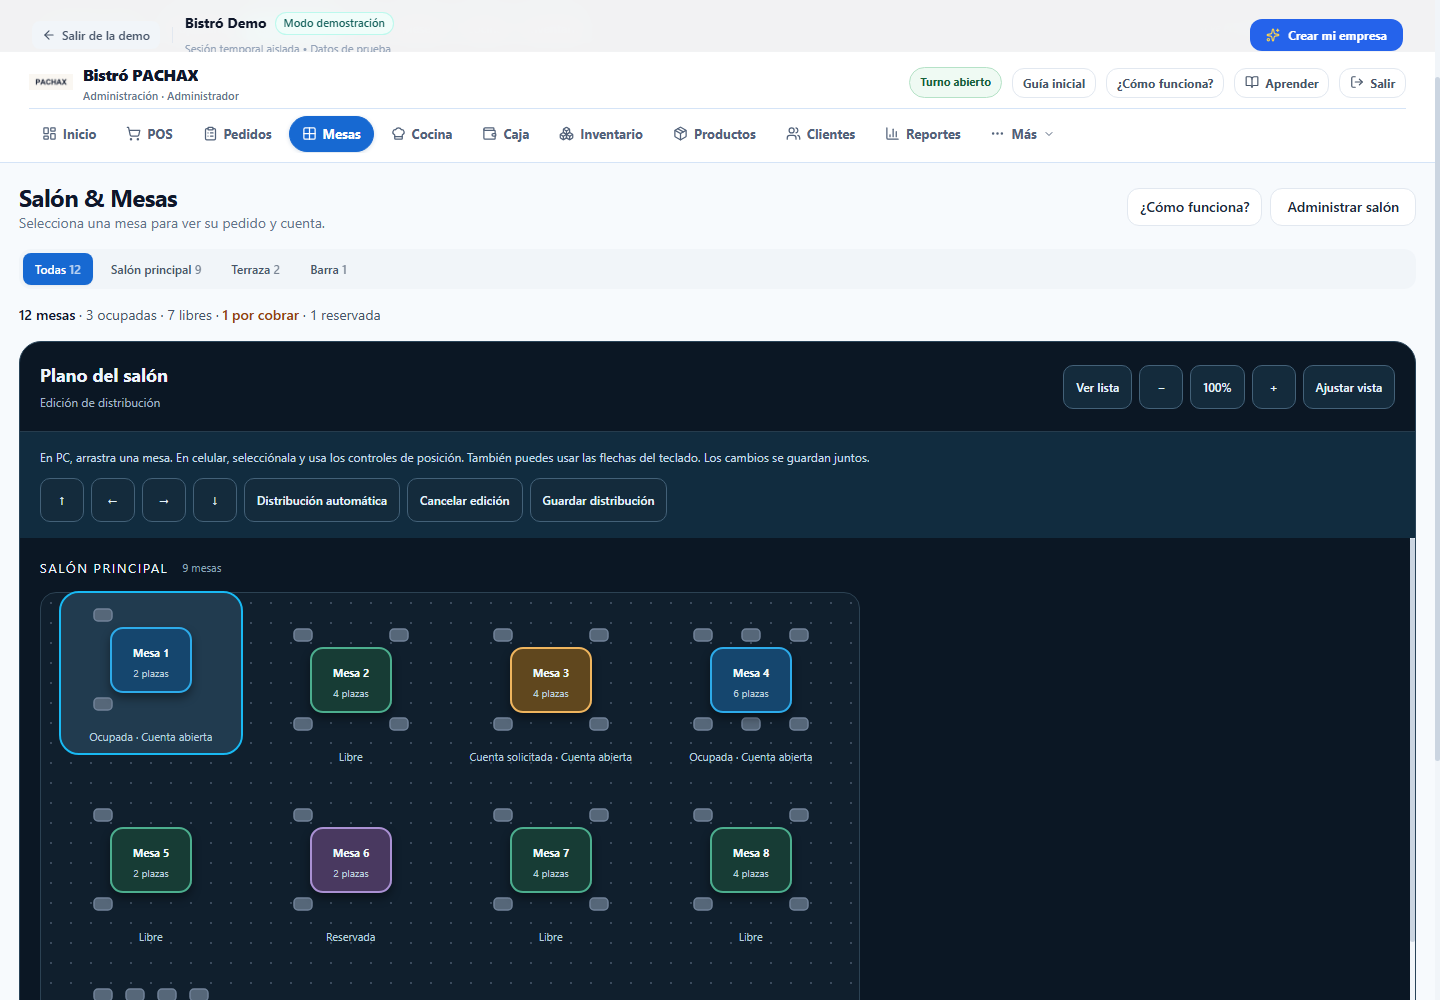
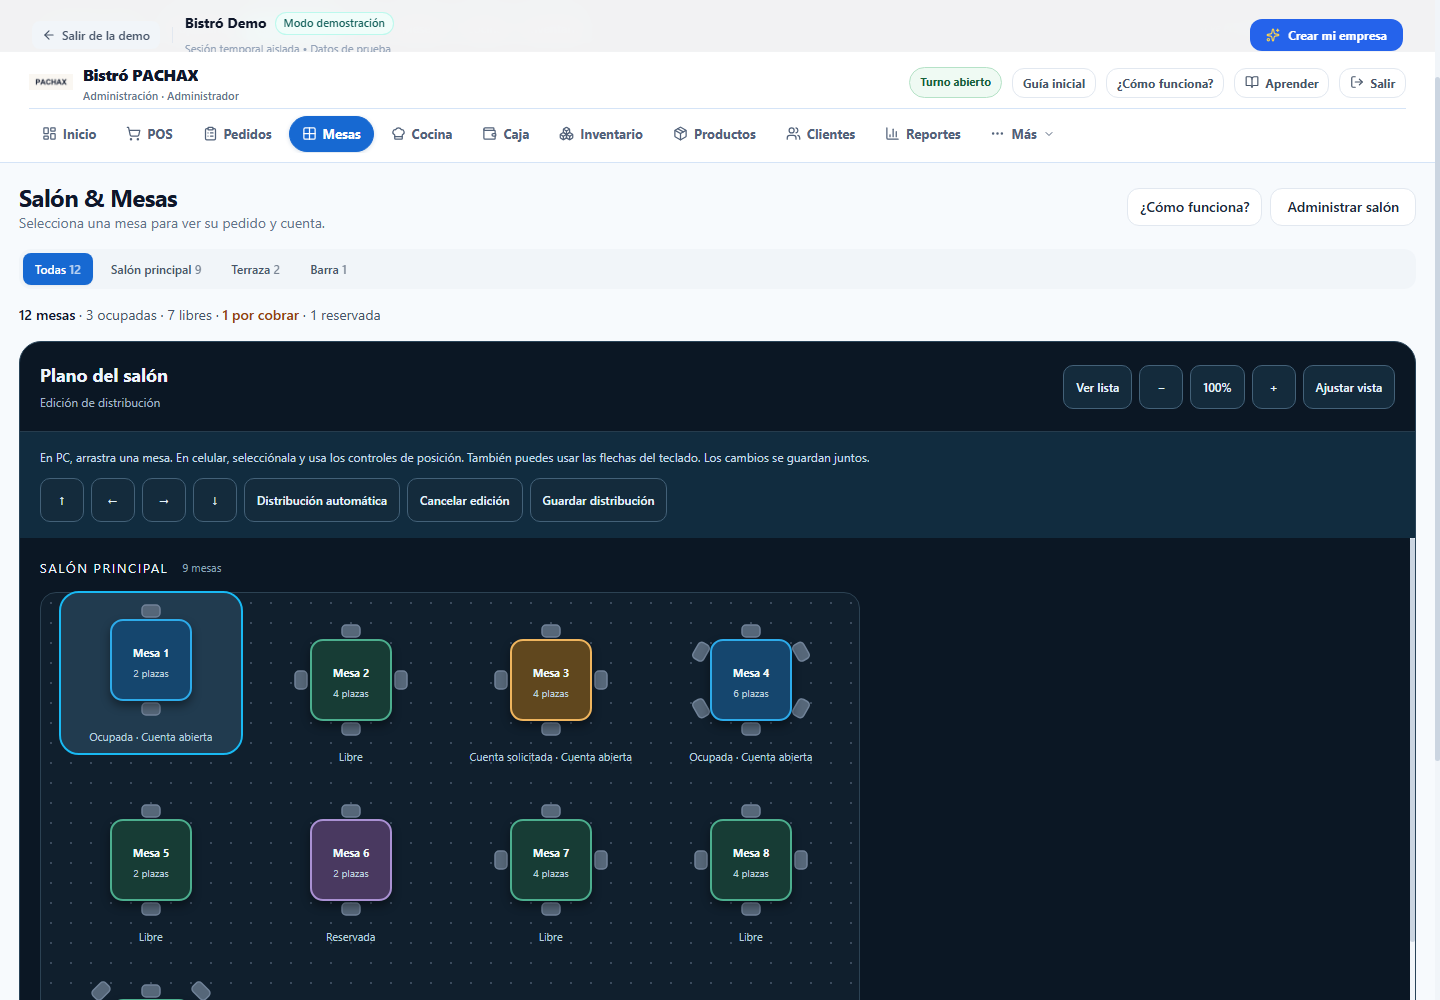
fix(restaurant): align table geometry and seat placement with real shapes

diff --git a/src/modules/restaurant/components/RestaurantFloorCanvas.tsx b/src/modules/restaurant/components/RestaurantFloorCanvas.tsx
@@ -20,11 +20,15 @@ export const RestaurantVisualTable = memo(function RestaurantVisualTable({ table
   return <svg viewBox="0 0 180 130" aria-hidden="true" className="restaurant-table-vector">
     {Array.from({ length: count }, (_, i) => {
       const angle = (i / count) * Math.PI * 2 - Math.PI / 2
-      const x = round ? 90 + Math.cos(angle) * 51 : i < Math.ceil(count / 2) ? 42 + i * (96 / Math.max(1, Math.ceil(count / 2) - 1)) : 42 + (i - Math.ceil(count / 2)) * (96 / Math.max(1, Math.floor(count / 2) - 1))
-      const y = round ? 61 + Math.sin(angle) * 49 : i < Math.ceil(count / 2) ? 16 : 105
-      return <rect key={i} x={x - 9} y={y - 6} width="18" height="12" rx="4" className="restaurant-table-chair" transform={round ? `rotate(${angle * 180 / Math.PI + 90} ${x} ${y})` : undefined} />
+      const topCount = Math.ceil(count / 2)
+      const rowCount = i < topCount ? topCount : count - topCount
+      const rowIndex = i < topCount ? i : i - topCount
+      const edge = Math.max(Math.abs(Math.cos(angle)), Math.abs(Math.sin(angle)))
+      const x = round ? 90 + Math.cos(angle) * 51 : rectangle ? (rowCount === 1 ? 90 : 42 + rowIndex * 96 / (rowCount - 1)) : 90 + Math.cos(angle) / edge * 50
+      const y = round ? 61 + Math.sin(angle) * 49 : rectangle ? (i < topCount ? 16 : 105) : 61 + Math.sin(angle) / edge * 49
+      return <rect key={i} x={x - 9} y={y - 6} width="18" height="12" rx="4" className="restaurant-table-chair" transform={!rectangle ? `rotate(${angle * 180 / Math.PI + 90} ${x} ${y})` : undefined} />
     })}
-    {round ? <circle cx="90" cy="61" r="37" className="restaurant-table-top" /> : <rect x={rectangle ? 25 : 50} y="29" width={rectangle ? 130 : 80} height="64" rx="12" className="restaurant-table-top" />}
+    {round ? <circle cx="90" cy="61" r="37" className="restaurant-table-top" /> : <rect x={rectangle ? 25 : 50} y={rectangle ? 29 : 21} width={rectangle ? 130 : 80} height={rectangle ? 64 : 80} rx="12" className="restaurant-table-top" />}
     <text x="90" y="58" textAnchor="middle" className="restaurant-table-name">{table.name.length > 17 ? `${table.name.slice(0, 15)}…` : table.name}</text>
     <text x="90" y="78" textAnchor="middle" className="restaurant-table-capacity">{table.capacity} plazas</text>
   </svg>
@@ -72,7 +76,7 @@ export function RestaurantFloorCanvas({ tables, sectors, canEdit, selectedId, on
     <header className="restaurant-floor-toolbar">
       <div><strong>Plano del salón</strong><span>{editing ? 'Edición de distribución' : 'Selecciona una mesa para consultar su cuenta'}</span></div>
       <div className="restaurant-floor-controls">
-        <button type="button" aria-pressed={list} onClick={() => setList(!list)}>{list ? 'Ver plano' : 'Ver lista'}</button>
+        <button type="button" disabled={editing} aria-pressed={list} onClick={() => setList(!list)}>{list ? 'Ver plano' : 'Ver lista'}</button>
         <button type="button" aria-label="Alejar plano" onClick={() => setZoom(v => Math.max(.6, v - .1))}>−</button>
         <button type="button" onClick={() => setZoom(1)} aria-label="Restablecer zoom">{Math.round(zoom * 100)}%</button>
         <button type="button" aria-label="Acercar plano" onClick={() => setZoom(v => Math.min(1.5, v + .1))}>+</button>
@@ -96,9 +100,9 @@ export function RestaurantFloorCanvas({ tables, sectors, canEdit, selectedId, on
           <h2>{group.name}<small>{group.tables.length} mesas</small></h2>
           <div className={list ? 'restaurant-floor-list' : 'restaurant-floor-space'} style={list ? undefined : { width: width * zoom, height: height * zoom }}>
             <div className={list ? undefined : 'restaurant-floor-plane'} style={list ? undefined : { width, height, transform: `scale(${zoom})` }}>
-              {group.tables.map((table,index) => { const p = point(table,index); const inactive = table.active === false; return <button key={table.id} type="button" data-table-id={table.id} data-tour={table.status === 'occupied' || table.status === 'bill_requested' ? 'tables-active' : table.status === 'available' ? 'tables-available' : undefined} disabled={inactive && !editing} aria-label={`${table.name}, ${table.capacity} plazas, ${inactive ? 'Desactivada' : labels[table.status]}`} aria-pressed={editing ? editId === table.id : selectedId === table.id} className={`restaurant-floor-table ${inactive ? 'inactive' : table.status} ${editing ? 'is-editing' : ''}`} style={list ? undefined : { left:p.x, top:p.y }}
+              {group.tables.map((table,index) => { const p = point(table,index); const inactive = table.active === false; return <button key={table.id} type="button" data-table-id={table.id} data-tour={inactive ? undefined : table.status === 'occupied' || table.status === 'bill_requested' ? 'tables-active' : table.status === 'available' ? 'tables-available' : undefined} disabled={inactive && !editing} aria-label={`${table.name}, ${table.capacity} plazas, ${inactive ? 'Desactivada' : labels[table.status]}`} aria-pressed={editing ? editId === table.id : selectedId === table.id} className={`restaurant-floor-table ${inactive ? 'inactive' : table.status} ${editing ? 'is-editing' : ''}`} style={list ? undefined : { left:p.x, top:p.y }}
                 onClick={() => editing ? setEditId(table.id) : onSelect(table)}
-                onKeyDown={event => { if (!editing || !['ArrowLeft','ArrowRight','ArrowUp','ArrowDown'].includes(event.key)) return; event.preventDefault(); move(table.id,{x:p.x+(event.key==='ArrowLeft'?-20:event.key==='ArrowRight'?20:0),y:p.y+(event.key==='ArrowUp'?-20:event.key==='ArrowDown'?20:0)}) }}
+                onKeyDown={event => { if (!editing || busy || !['ArrowLeft','ArrowRight','ArrowUp','ArrowDown'].includes(event.key)) return; event.preventDefault(); move(table.id,{x:p.x+(event.key==='ArrowLeft'?-20:event.key==='ArrowRight'?20:0),y:p.y+(event.key==='ArrowUp'?-20:event.key==='ArrowDown'?20:0)}) }}
                 onPointerDown={event => { if (!editing || busy || event.pointerType === 'touch') return; setEditId(table.id); event.currentTarget.setPointerCapture(event.pointerId); drag.current={id:table.id,x:event.clientX,y:event.clientY,start:p} }}
                 onPointerMove={event => { const d=drag.current; if (!d || d.id!==table.id || !editing) return; move(table.id,{x:d.start.x+(event.clientX-d.x)/zoom,y:d.start.y+(event.clientY-d.y)/zoom}) }}
                 onPointerUp={event => { drag.current=null; if (event.currentTarget.hasPointerCapture(event.pointerId)) event.currentTarget.releasePointerCapture(event.pointerId) }} onPointerCancel={() => { drag.current=null }}>

diff --git a/src/modules/restaurant/components/RestaurantTables.tsx b/src/modules/restaurant/components/RestaurantTables.tsx
@@ -153,7 +153,7 @@ export function RestaurantTables({ tables, sectors, canManageFloor, onFloorActio
     <div data-tour="tables-sectors" className="flex flex-wrap gap-1.5 rounded-xl bg-slate-100 p-1">{[{ id: 'all', name: 'Todas' }, ...activeSectors].map(zone => <button data-tour={zone.id === 'all' ? undefined : 'tables-sector-option'} key={zone.id} type="button" disabled={editingLayout} aria-pressed={selectedZone === zone.id} onClick={() => setSelectedZone(zone.id)} style={selectedZone === zone.id ? { backgroundColor: 'var(--primary)', color: 'var(--primary-foreground)' } : undefined} className={`rounded-lg px-3 py-2 text-xs font-semibold transition-colors focus-visible:outline focus-visible:outline-2 focus-visible:outline-offset-2 focus-visible:outline-blue-600 ${selectedZone === zone.id ? 'shadow-sm' : 'text-slate-600 hover:bg-white/70'}`}>{zone.name} <span className="opacity-70">{tables.filter(table => !table.archivedAt && table.active !== false && (zone.id === 'all' || table.sectorId === zone.id)).length}</span></button>)}</div>
     <p data-tour="tables-status" className="text-sm text-slate-600"><strong className="font-semibold text-slate-900">{liveTables.length} {liveTables.length === 1 ? 'mesa' : 'mesas'}</strong> · {occupiedCount} {occupiedCount === 1 ? 'ocupada' : 'ocupadas'} · {availableCount} {availableCount === 1 ? 'libre' : 'libres'} · <span className="font-semibold text-amber-800">{billCount} por cobrar</span>{reservedCount > 0 && ` · ${reservedCount} ${reservedCount === 1 ? 'reservada' : 'reservadas'}`}</p>
     {managing && canManageFloor && <RestaurantFloorManager sectors={sectors} tables={tables} selectedSectorId={selectedZone} onFloorAction={onFloorAction} onSelectSector={setSelectedZone} onViewTable={(id) => { setSelected(tables.find(table => table.id === id) || null); setManaging(false) }} />}
-    {!activeSectors.length && !managing && <p data-tour="tables-empty-state" className="rounded-xl border border-dashed border-slate-300 p-5 text-sm text-slate-600">Aún no hay sectores ni mesas. {canManageFloor ? 'Usa Administrar salón para crear el primero.' : 'Pide a un administrador que configure el salón.'}</p>}
+    {!activeSectors.length && !managing && <p data-tour="tables-empty-state" className="rounded-xl border border-dashed border-slate-300 p-5 text-sm text-slate-600">No hay sectores activos configurados. {canManageFloor ? 'Usa Administrar salón para crear el primero.' : 'Pide a un administrador que configure el salón.'}</p>}
     {!enabled && <p className="rounded-xl border border-amber-200 bg-amber-50 p-3 text-sm text-amber-900">Debes iniciar un turno antes de realizar operaciones.</p>}
     {!managing && <>
     <RestaurantFloorCanvas tables={filteredTables} sectors={sectors} selectedId={selected?.id} canEdit={canManageFloor} onEditingChange={setEditingLayout} onSave={onFloorAction} onSelect={table => { setSelected(table); setShowAdd(false); setPaying(false); setCustomerId('') }} />
